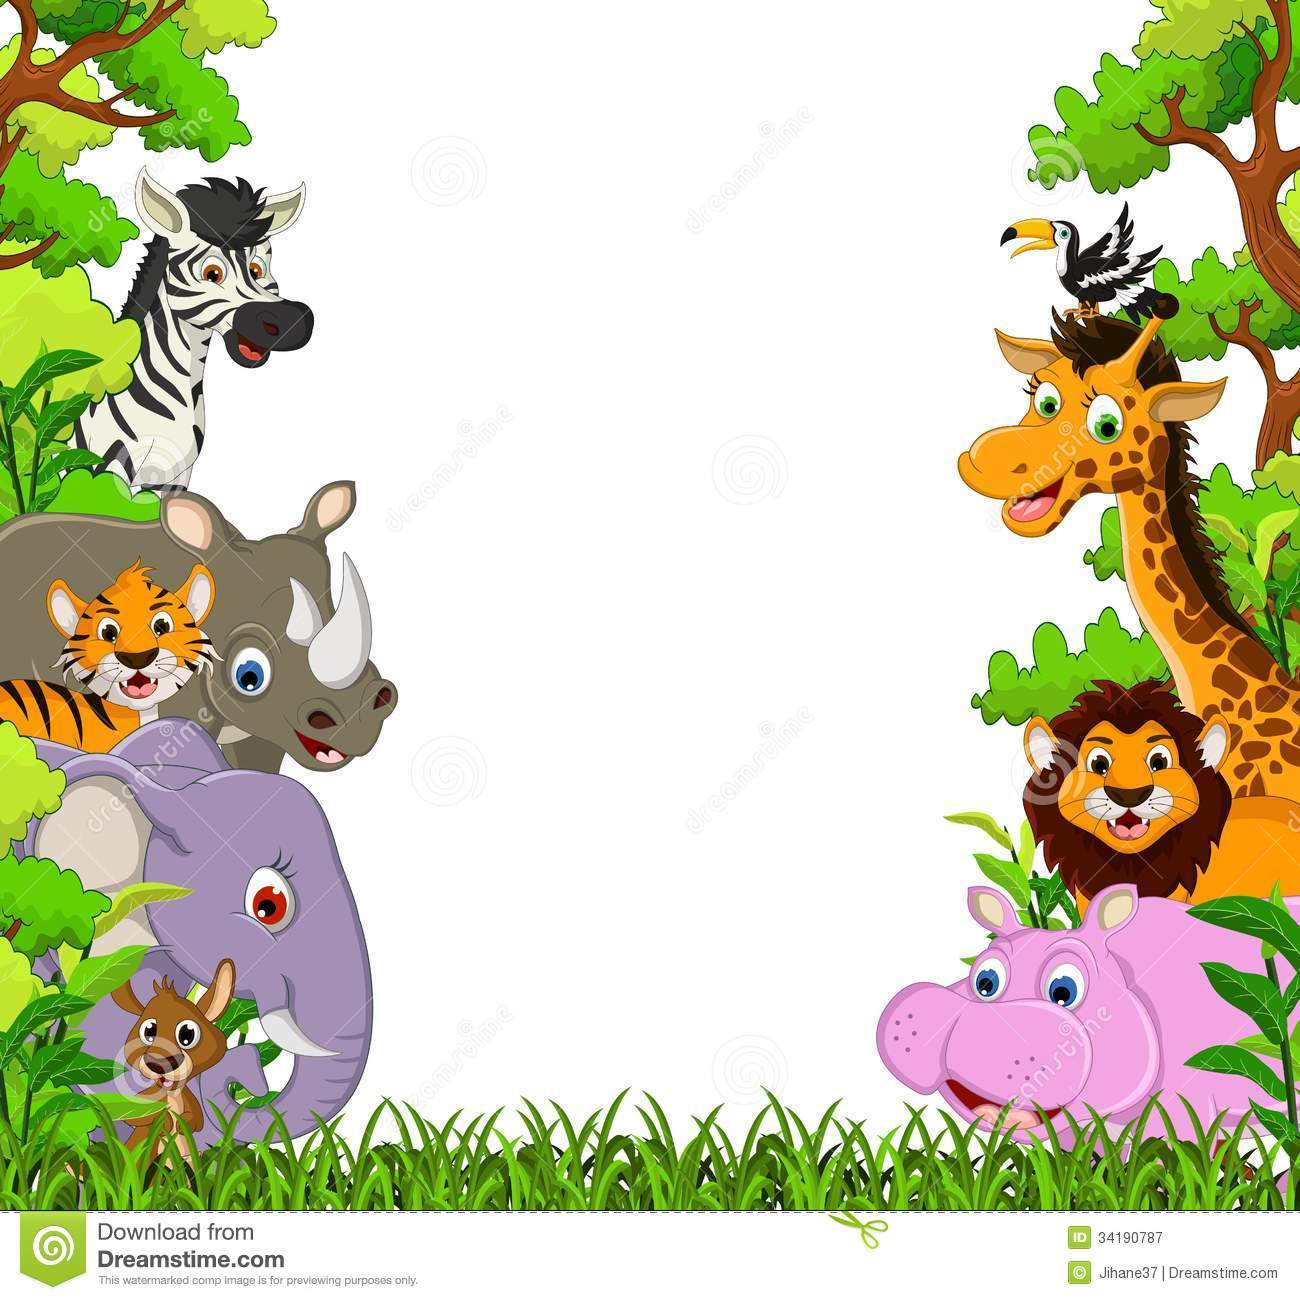
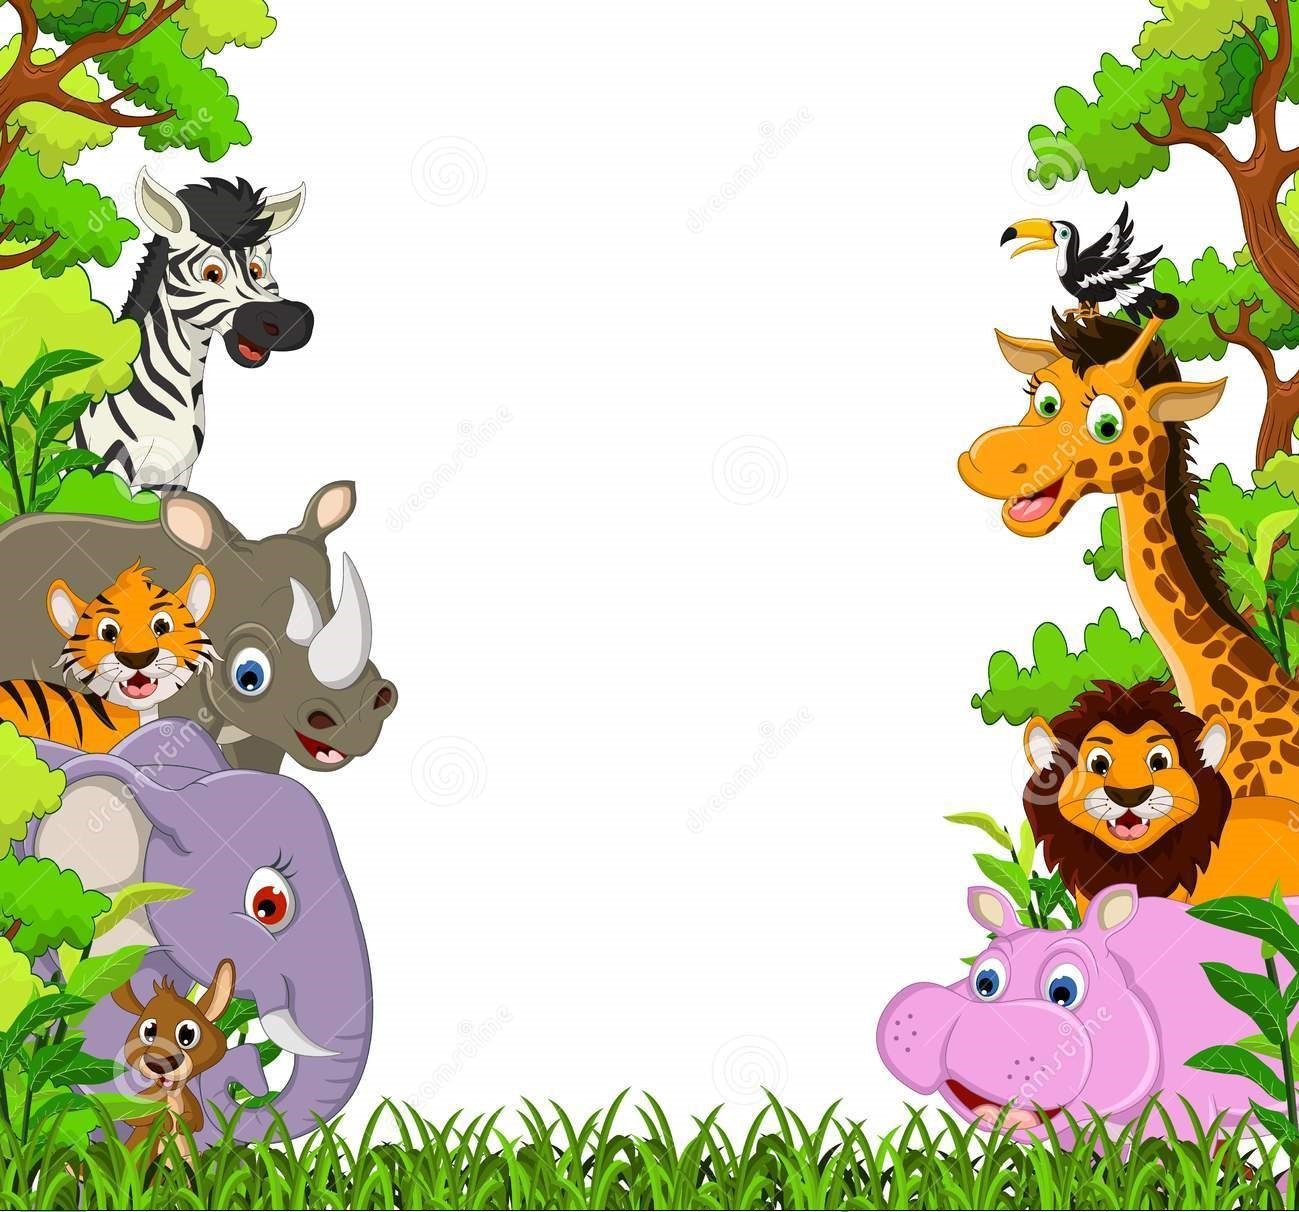
did some syling and add image array to the code

diff --git a/index.html b/index.html
@@ -1,93 +1,103 @@
 <!DOCTYPE html>
 <html lang="en">
+
 <head>
     <meta charset="UTF-8">
     <meta name="viewport" content="width=device-width, initial-scale=1.0">
     <meta http-equiv="X-UA-Compatible" content="ie=edge">
     <link rel="stylesheet" href="https://stackpath.bootstrapcdn.com/bootstrap/4.1.0/css/bootstrap.min.css" integrity="sha384-9gVQ4dYFwwWSjIDZnLEWnxCjeSWFphJiwGPXr1jddIhOegiu1FwO5qRGvFXOdJZ4"
         crossorigin="anonymous">
-       
+    <link rel="stylesheet" href="assets/css/style.css">
     <title>Hangman-Game</title>
 </head>
 
-<body style="background-image  : url('./assets/images/animal-background.jpg' ) ">
-  
-<div class="container">
-   
-    <div class="row w-50  mx-auto my-4">
-       
-        <div class="col-md-12 ">
-            <h1 class="text-center"> Hangman Game</h1>
+<!-- <body style="background-image  : url('./assets/images/animal-background.jpg' )"> -->
+
+
+<body class="bg-success text-success">
+    <div class="container ">
+
+        <div class="row w-50  mx-auto my-5">
+
+            <div class="col-md-12 ">
+                <h1 class="text-center"> Hangman Game</h1>
+            </div>
+
         </div>
+
+        <div class="row w-50  mx-auto my-3">
+
+            <div class="col-md-12 ">
+                <h3 class="text-center"> Press any key to get started</h3>
+            </div>
+
+        </div>
+
+        <div class="row w-75  mx-auto my-3">
+
+            <div class="col-md-12 ">
+                <h3 class="text-center"> Wins</h3>
+            </div>
+
+            <div class="col-md-12 ">
+                <h3 id="wins" class="text-center"> </h3>
+            </div>
+
+        </div>
+
+        <div class="row w-75  mx-auto my-3">
+
+            <div class="col-md-12 ">
+                <h3 class="text-center"> Current word</h3>
+            </div>
+
+            <div class="col-md-12 ">
+                <h3 id="currentWord" class="text-center"> </h3>
+            </div>
+
+        </div>
+
+        <div class="row w-75  mx-auto my-3">
+
+            <div class="col-md-12 ">
+                <h3 class="text-center"> Number of Guesses remaining </h3>
+            </div>
+
+            <div class="col-md-12 ">
+                <h3 id="guessesRemaining" class="text-center"> 9 </h3>
+            </div>
+
+        </div>
+
+        <div class="row w-75  mx-auto my-3">
+
+            <div class="col-md-12 ">
+                <h3 class="text-center"> Letters already guessed </h3>
+            </div>
+
+            <div class="col-md-12 ">
+                <h3 id="letterGuessed" class="text-center"></h3>
+            </div>
+
+        </div>
+
+        <div class="row w-75  mx-auto my-3">
+
+            <div class="col-md-12 ">
+                <h3 id="image" class="text-center"></h3>
+            </div>
+
+        </div>
+
+
+
+
+
 
     </div>
 
-    <div class="row w-50  mx-auto my-3">
-       
-        <div class="col-md-12 ">
-            <h3 class="text-center"> Press any key to get started</h3>
-        </div>
-
-    </div>
-
-    <div class="row w-75  mx-auto my-3">
-       
-        <div class="col-md-12 ">
-            <h3 class="text-center"> Wins</h3>
-        </div>
-        
-        <div class="col-md-12 ">
-            <h3  id="wins"class="text-center"> </h3>
-        </div>
-
-    </div>
-
-    <div class="row w-75  mx-auto my-3">
-       
-        <div class="col-md-12 ">
-            <h3 class="text-center"> Current word</h3>
-        </div>
-        
-        <div class="col-md-12 ">
-            <h3  id="currentWord"class="text-center">   </h3>
-        </div>
-
-    </div>
-    
-    <div class="row w-75  mx-auto my-3">
-       
-        <div class="col-md-12 ">
-            <h3  class="text-center"> Number of Guesses remaining </h3>
-        </div>
-        
-        <div class="col-md-12 ">
-            <h3 id="guessesRemaining" class="text-center"> 9 </h3>
-        </div>
-
-    </div>
-
-    <div class="row w-75  mx-auto my-3">
-       
-        <div class="col-md-12 ">
-            <h3 class="text-center"> Letters already guessed </h3>
-        </div>
-        
-        <div class="col-md-12 ">
-            <h3 id="letterGuessed" class="text-center"></h3>
-        </div>
-
-    </div>
-
-
-
-
-
-
-
-
-</div>
-
-<script src="./assets/javascript/game.js"></script>  
+    <script src="./assets/javascript/game.js"></script>
 
 </body>
+
 </html>

diff --git a/assets/javascript/game.js b/assets/javascript/game.js
@@ -4,6 +4,7 @@ var letterText = document.getElementById("letterGuessed");
 var currentText = document.getElementById("currentWord");
 var remainingtText = document.getElementById("guessesRemaining");
 var winstText = document.getElementById("wins");
+var imageText=document.getElementById("image");
 
 //declare global variables
 var letters = [];
@@ -16,7 +17,8 @@ var alphapit = ['A', 'B', 'C', 'D', 'E', 'F', 'G', 'H', 'I', 'J', 'K', 'L', 'M',
 var hangmanWords = {
 
     guessedAllowed: 9,
-    wordArray: ["aarrbee", "horse", "dog", "zebra"],
+    wordArray: ["oyster","caiman", "hamster", "jaguar", "koala","leopard","oyster","puma","zebra","snail"],
+    imageArray:["./assets/images/oyster.jpg","./assets/images/caiman.jpg","./assets/images/hamster.jpg","./assets/images/jaguar.jpg","./assets/images/koala.jpg","./assets/images/leopard.jpg","./assets/images/oyster.jpg","./assets/images/puma.jpg","./assets/images/zebra.jpg","./assets/images/snail.jpg",],
     wordIndex: Math.floor(Math.random() * 4),
     tryToGuess: ["-"],
     wins: 0,
@@ -79,6 +81,15 @@ var hangmanWords = {
             // give the isWin boolean a value of true as the user guessed the leeter 
             isWin = true;
             // call reset function to get new word 
+            var img=document.createElement("img");
+           // put the right image from imageArray
+           imageText.textContent="";
+           img.src=this.imageArray[this.wordIndex];
+            img.id="picture";
+            img.height="150";
+            img.width="150";
+            imageText.appendChild(img);
+          // call reset function
             this.resetMe(isWin);
         }
 
@@ -95,6 +106,7 @@ var hangmanWords = {
         // reset variables and change newWord boolean to true 
         newWord = true;
         letterText.textContent = "";
+      //  imageText.textContent="";
         this.guessedAllowed = 9;
         this.tryToGuess = [];
         this.invalidLetters = [];
@@ -134,7 +146,7 @@ document.onkeyup = function (event) {
         var a = arr.indexOf(userLetter);
         if ((a) > -1) {
             for (var x = 0; x < arr.length; x++) {
-                // look in the letter array to check if the letter pressed in matching any of them 
+                // look in the letter array to check if the letter pressed is matching any of them 
                 if (arr[x] === userLetter) {
                    // if the letter pressed match any of the letter then fill the tryToGuess array with that letter at specific index
                     hangmanWords.fillWord(newWord, x, userLetter);

diff --git a/assets/css/style.css b/assets/css/style.css
@@ -1,0 +1,8 @@
+body { 
+    background-image: url('../images/animal-background.jpg' );
+    background-repeat: no-repeat;
+    background-attachment: fixed;
+    background-size: 100% 100%;
+    background-position: center; 
+    
+}
